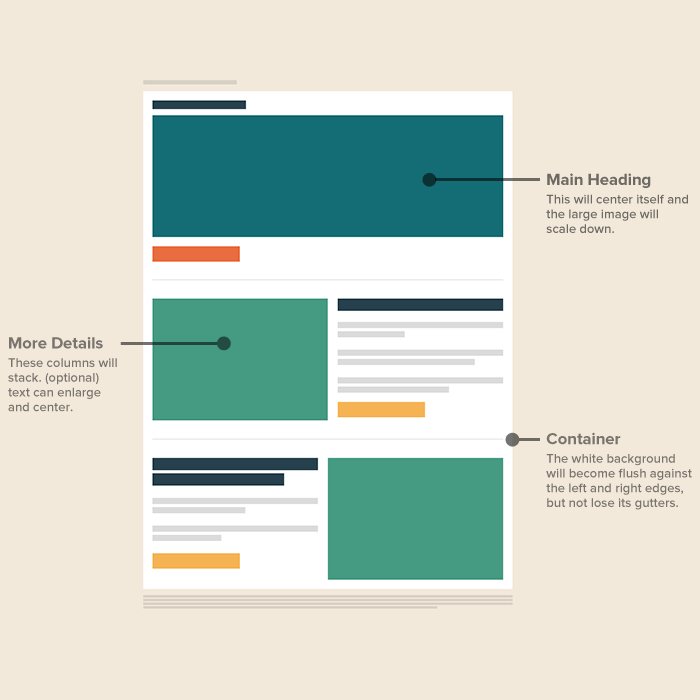
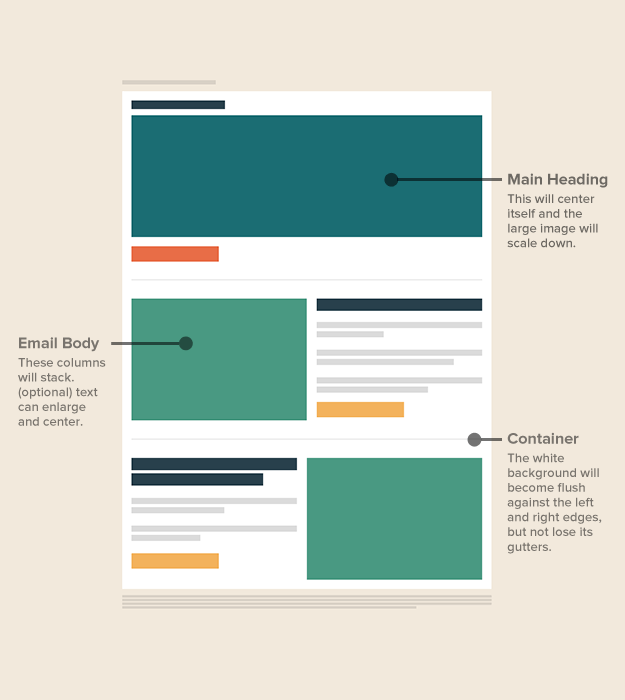
Rewrote Personal Projects
* Rewrote all text content in personal projects
* New images for Responsive Email XX and Support Details
* Added Cerberus section

diff --git a/css/global.css b/css/global.css
@@ -1,1 +1,1 @@
-html,body,div,span,applet,object,iframe,h1,h2,h3,h4,h5,h6,p,blockquote,pre,a,abbr,acronym,address,big,cite,code,del,dfn,em,font,img,ins,kbd,q,s,samp,small,strike,strong,sub,sup,tt,var,dl,dt,dd,ol,ul,li,fieldset,form,label,legend,table,caption,tbody,tfoot,thead,tr,th,td,hr,article,aside,details,figcaption,figure,footer,header,hgroup,menu,nav,section{margin:0;padding:0;border:0;font-weight:normal}article,aside,details,figcaption,figure,footer,header,hgroup,menu,nav,section{display:block}ol,ul,li{list-style-type:none}.cf,.inside{zoom:1}.cf:before,.inside:before,.cf:after,.inside:after{content:" ";display:table}.cf:after,.inside:after{clear:both}@font-face{font-family:'fontello';src:url('font/fontello.eot?32152250');src:url('font/fontello.eot?32152250#iefix') format('embedded-opentype'),url('font/fontello.woff?32152250') format('woff'),url('font/fontello.ttf?32152250') format('truetype'),url('font/fontello.svg?32152250#fontello') format('svg');font-weight:normal;font-style:normal}[class^="icon-"]:before,[class*=" icon-"]:before{font-family:"fontello";font-style:normal;font-weight:normal;speak:none;display:inline-block;text-decoration:inherit;width:1em;margin-right:.2em;text-align:center;font-variant:normal;text-transform:none;line-height:1em;margin-left:.2em}.icon-menu:before{content:'\2630'}.icon-rss:before{content:'\e802'}.icon-left-open-big:before{content:'\e801'}.icon-right-open-big:before{content:'\e800'}.icon-github:before{content:'\f300'}.icon-twitter:before{content:'\f309'}.icon-dribbble-1:before{content:'\f31b'}.icnSocial{display:inline-block;line-height:1.9;border:1px solid;text-align:center;height:28px;width:28px;border-radius:2px;padding:0 0 0 1px;box-shadow:inset 0 1px 0 rgba(255,255,255,0.1)}.icnSocial i{font-size:16px;margin:auto;color:#fff;text-shadow:0 1px 1px rgba(0,0,0,0.25)}.icnSocial.twitter{border-color:#008cc1;background:#00aced;background-image:-webkit-gradient(linear,0% 0,0% 100%,from(#7bc9f3),to(#00aced));background-image:-webkit-linear-gradient(top,#7bc9f3,#00aced);background-image:-moz-linear-gradient(top,#7bc9f3,#00aced);background-image:-ms-linear-gradient(top,#7bc9f3,#00aced)}.icnSocial.dribbble{border-color:#c8004d;background:#ea4c89;background-image:-webkit-gradient(linear,0% 0,0% 100%,from(#ef79a7),to(#ea4c89));background-image:-webkit-linear-gradient(top,#ef79a7,#ea4c89);background-image:-moz-linear-gradient(top,#ef79a7,#ea4c89);background-image:-ms-linear-gradient(top,#ef79a7,#ea4c89)}.icnSocial.github{border-color:#222;background:#444;background-image:-webkit-gradient(linear,0% 0,0% 100%,from(#555),to(#444));background-image:-webkit-linear-gradient(top,#555,#444);background-image:-moz-linear-gradient(top,#555,#444);background-image:-ms-linear-gradient(top,#555,#444)}.icnSocial.rss{border-color:#222;background:#ff9846;background-image:-webkit-gradient(linear,0% 0,0% 100%,from(#ffad6a),to(#ff9846));background-image:-webkit-linear-gradient(top,#ffad6a,#ff9846);background-image:-moz-linear-gradient(top,#ffad6a,#ff9846);background-image:-ms-linear-gradient(top,#ffad6a,#ff9846)}html{font-size:100%;-webkit-text-size-adjust:100%;-ms-text-size-adjust:100%}body{font-family:"freight-sans-pro",arial,sans-serif;color:#666;font-size:20px;line-height:1.33em;letter-spacing:.025em}h1{font-weight:300;font-size:60px;line-height:1;margin:0 0 50px 0}h2{font-weight:700;font-size:30px;line-height:1.231;margin-bottom:25px}h3{font-weight:700;font-size:20px}h4{font-weight:700;font-size:15px;text-transform:uppercase;letter-spacing:.1em}.intro{font-weight:300;font-size:40px;line-height:1.1em;margin-bottom:37.5px}p,article ul,blockquote{margin:0 0 25px 0}blockquote p{font-size:30px;line-height:1.1;font-weight:100;color:#aaa;margin:0}article li{margin:0 0 10px 25px}article ul li{list-style-type:disc}article ol li{list-style-type:decimal}article .icons li{list-style-type:none}ul.icons li:before{display:block;content:"✓";color:#888;float:left;margin:0 0 0 -25px;list-style-type:none}strong,b{font-weight:700}small,figcaption{font-size:15px;line-height:1;opacity:.5}small.summary{display:block;margin:-25px 0 25px}sup{line-height:0;margin:0 2px}a,a:visited{text-decoration:none;color:#26ade4}pre,code{font-family:"American Typewriter",'courier new',serif;font-size:15px;color:#888}abbr[title],dfn[title]{cursor:help}hr{margin:25px 0;display:block;border-top:1px solid #eee;line-height:0;height:0;font-size:0}::-moz-selection{background:#444;color:#fff;text-shadow:none}::selection{background:#444;color:#fff;text-shadow:none}.wf-loading h1,.wf-loading h2,.wf-loading h3,.wf-loading p,.wf-loading li,.wf-loading img{opacity:0;visibility:hidden\9}h1,h2,h3,p,li,img{opacity:1;visibility:visible;transition:opacity .1s ease-in-out}img{width:auto;height:auto}img.fluid{max-width:100%}.icnInline{line-height:1.5}img.skill{width:72px;height:72px}img.x2{height:50%;width:50%}a.btn{padding:8px 15px;margin:auto;color:#fff;font-size:15px;line-height:1;border-radius:20px;-webkit-transition:all .1s ease-in;transition:all .1s ease-in}.btn.dribbble,.btn.github{opacity:.8}.btn.dribbble i,.btn.github i{position:relative;top:1px;font-size:16px}.btn.dribbble:hover,.btn.github:hover,.btn.dribbble:focus,.btn.github:focus,.btn.dribbble:active,.btn.github:active{opacity:1}.btn.dribbble{background:#ea4c89}.btn.github{background:#222}.sitelink .btn{background:rgba(0,0,0,0.2)}.sitelink .btn:hover,.sitelink .btn:focus,.sitelink .btn:active{background:rgba(0,0,0,0.4)}body{background:#fff url(i/bgPage.png) repeat;overflow-x:hidden}.inside{width:1000px;margin:auto;text-align:left}.main{margin-top:75px}.header{background:#111;letter-spacing:.1em;padding:10px 0;position:relative;z-index:1}.header nav{-webkit-transition:all .3s ease-out;transition:all .3s ease-out}.header li{display:inline;font-size:15px;text-transform:uppercase;margin-right:5%}.header li a,.header li:visited{font-weight:500;color:#fff}.header li.nSocial{float:right;margin:0}.header li.nSocial a{display:inline-block;margin-left:4px}.home .header .ted,.work .header li.nWork a,.contact .header li.nContact a,.bio .header li.nBio a,.blog .header li.nBlog a{color:#26ade4}a.menu-link{display:none}.home{background:#000}.home .header{background:rgba(0,0,0,0.5)}.home .main .inside{color:#eee;margin-top:75px}.home p{margin-right:60%;text-shadow:2px 2px 2px rgba(0,0,0,0.75)}.home p.intro{margin-right:52.5%}.home h1{margin-top:5%}.home .main a,.home .main a:visited,.home .main a:hover,.home .main a:focus,.home .main a:active{color:#fff;border-bottom:1px solid #666}.home .footer .inside,.home .footer a{color:#999;text-shadow:0 1px 1px rgba(0,0,0,0.5)}.work .main{margin-top:25px}.projects{border-bottom:1px solid #eee}.project{width:33%;margin:0;padding:0;list-style-type:none;display:block;line-height:1;float:left;text-align:center}.project img{border:2px solid #fff;width:100%}.project a{color:#666;display:block;-webkit-transition:all .15s ease-in-out;transition:all .15s ease-in-out}.project a:hover h4,.project a:focus h4,.project a:active h4{color:#26ade4}.project h4{margin:10px 0 5px}.project small{margin:0;display:block;margin-bottom:25px}.skills{margin-top:25px}.skills img{float:left;margin-top:6px}.skills h2{margin-bottom:50px}.skills p{margin-bottom:50px}.skills h3,.skills h4,.skills p{margin-left:85px}.skills .what{padding-top:50px;float:left;width:47.5%}.exp{float:right;width:45%;padding:50px 0 0 2.5%;border-left:1px solid #eee}.exp p{font-size:15px;line-height:1.33;margin-bottom:50px}.what h3{padding:8px 0 8px 17px;margin:0 0 8px 68px;border-bottom:1px solid;font-weight:400}h3.product{color:#26ade4;border-color:#26ade4}h3.design{color:#e4264e;border-color:#e4264e}h3.code{color:#6bd516;border-color:#6bd516}h3.email{color:#9a26e4;border-color:#9a26e4}h3.speed{color:#26e4bc;border-color:#26e4bc}h3.more{color:#e4bc26;border-color:#e4bc26}.workNav a{position:fixed;z-index:99;top:49%;font-weight:800;font-size:15px;line-height:1;text-transform:uppercase;letter-spacing:.1em;padding:15px 15px 14px;background:rgba(0,0,0,0.4);color:#fff;width:210px;border-radius:3px;transition:all .15s ease-in-out}.workNav a:hover,.workNav a:focus,.workNav a:active{background:rgba(0,0,0,0.6)}.workNav i{text-align:left;font-size:15px}.next{right:-3px;text-align:right;margin-right:-200px}.next:hover{margin:0}.next i{float:left;margin:-1px 0 0 -5px}.prev{left:-3px;text-align:left;margin-left:-200px}.prev:hover{margin:0}.prev i{float:right;margin:-1px -5px 0 0}.work figure{line-height:0}.work .mast .inside{position:relative}.mast .text{width:40%;float:left;margin-top:5%}.mast h1{margin-bottom:25px}.note{font-size:15px;line-height:1.231;margin:0 0 25px 0;display:block;opacity:.5}.mast figure{float:right;width:60%;text-align:center}.mast .idid small{display:block;margin-bottom:5px;letter-spacing:.1em;text-transform:uppercase;opacity:.5}.idid li{position:relative;display:inline-block;margin:0 1.5% 1.5% 0;line-height:1;border-radius:2px;color:#fff;padding:6px 8px 4px;font-weight:500;font-size:15px;letter-spacing:.15em;text-transform:uppercase;opacity:.8;transition:all .2s ease-in-out;box-shadow:inset 0 1px 0 rgba(255,255,255,0.1),0 1px 0 rgba(0,0,0,0.25);text-shadow:0 1px 1px rgba(0,0,0,0.33)}.idid .design{background:#b72645}.idid .product{background:#268db7}.idid .code{background:#8eb727}.idid .email{background:#7f27b7}.idid .speed{background:#26b799}div.sitelink{margin:0 0 25px 0}.work section{padding:75px 0;border-bottom:1px solid #eee}.work section.nobottom{padding-bottom:0}.work .imgr .text{float:left;width:35%}.work .imgr figure{float:right;width:65%}.work .imgl .text{float:right;width:35%}.work .imgl figure{float:left;width:65%}.work .imgr img{float:right}.work .text img{float:none}.work .halves p{width:47.5%;float:left}.work .halves p:last-child{float:right}.contact .l{float:left;width:45%}.contact .r{float:right;width:50%;text-align:center}.contact .r img{margin:25px auto 10px}.contact .r small{display:block}img.email{width:80%}.map{margin-top:25px;padding-top:25px;border-top:1px solid #eee;text-align:center;overflow:hidden}.bio .timeline{background:#f8f1e1;background:rgba(181,134,26,0.05)}.bio .mast{background:#0f0f0f url(i/bio.jpg) top center repeat-x;border-bottom:12px solid #000;height:400px}.bio .mast .inside{text-align:center}.bio .mast p{display:inline-block;margin:300px auto 0;font-size:40px;line-height:1.1;color:#fff;padding:1.5% 2%;background:rgba(0,0,0,0.5);font-weight:300}.timeline{position:relative}.timeline .inside{border-left:4px solid #e5e0d3;padding:100px 0 150px 0}.timeline li{position:relative;z-index:2;width:45%;border:1px solid #f2f2f2;background:#fff;margin:0 0 -75px 5%;border-radius:5px;-webkit-box-shadow:0 1px 2px rgba(0,0,0,0.05);box-shadow:0 1px 2px rgba(0,0,0,0.05)}.timeline li:nth-child(even){margin-left:55%}.timeline li:before{display:block;content:"";position:absolute;z-index:-1;top:50%;height:4px;margin-top:-2px;background:#e5e0d3;left:-12%;width:15%}.timeline li:nth-child(even):before{left:-123%;width:125%}.timeline li:after{position:absolute;z-index:-1;left:-10px;top:50%;margin-top:-11px;content:" ";display:block;height:14px;width:14px;border:4px solid #e5e0d3;border-radius:20px;background:#f7f3e8}.timeline span{position:absolute;z-index:3;top:-25px;left:50%;margin-left:-25px;height:51px;width:53px;text-align:center;line-height:300%;letter-spacing:.1em;font-size:15px;font-weight:700;color:#495262}.timeline span img{position:absolute;top:0;left:0;z-index:-1}.timeline li div{line-height:0}.timeline p{color:#888;font-size:20px;line-height:1.231;border-top:2px solid;padding:5%;margin:0}.red p{border-color:#e4264e}.yellow p{border-color:#e4bc26}.green p{border-color:#6bd516}.blue p{border-color:#26ade4}.purple p{border-color:#9a26e4}.blog .main{margin-top:0}.blog .mast{background:#06111a url(i/mastBlog.jpg) top center no-repeat;height:250px;border-bottom:3px solid #6bd516}.blog .mastBottom{box-shadow:inset 0 2px 0 rgba(0,0,0,0.25)}.blog .summary{text-align:center;position:relative}.blog .summary ul{position:relative;width:100%}.blog .summary li{height:2px;width:20%;display:block;float:left}.blog .summary .r{background:#e4264e}.blog .summary .y{background:#e4bc26}.blog .summary .g{background:#6bd516}.blog .summary .b{background:#26ade4}.blog .summary .p{background:#9a26e4}.blog .summary div{margin:60px auto;color:#fff;display:inline-block;background:rgba(0,0,0,0.7)}.blog .summary div p{padding:5% 5%;white-space:nowrap;margin:0}.blog .summary a,.blog .summary a:visited{font-size:15px;color:#888;border-bottom:1px solid #444}.blog .summary a:hover,.blog .summary a:focus,.blog .summary a:active{color:#fff;border-color:#fff}.blog .summary a.icnSocial,.blog .summary a.icnSocial:hover,.blog .summary a.icnSocial:focus,.blog .summary a.icnSocial:active{margin:8px auto;border-color:#ffad6a}.blog .article,.blog .archive{width:60%;margin:0 auto 75px}.blog footer{text-align:center}.caption,small.meta,figcaption{text-align:center;display:block;margin-top:10px}.blog h1{text-align:center;margin:25px auto 0}.blog article header{margin-bottom:50px}.blog .pic{position:relative;margin:50px 0 0;text-align:center;font-size:15px;color:#888;line-height:0}.blog article h3{margin-bottom:.5em}.blog article blockquote{padding:2.5% 5% 2.5%;border-left:5px solid #26ade4}div.twitter-tweet-rendered{margin:0 auto 1.5em}.blog figure{line-height:1}.blog figure.left.pull{float:left;margin:0 5% 2.5% -15%;max-width:75%}a.medium{display:block;padding:8px 12px;background:#333;color:#fff;border-left:4px solid #57ad68}a.medium:hover,a.medium:focus,a.medium:active{background:#222}.blog .archive{margin-top:25px}.archive li{text-align:center;font-size:30px;line-height:1;font-weight:300;margin:0 0 3.5% 0;padding:0 0 3.5% 0;list-style-type:none;border-bottom:1px solid #eee}.footer .inside{font-size:15px;padding:1.5% 0;color:#ccc;text-align:center}.footer li{margin:0 auto;line-height:1.5}.footer span{line-height:0;font-size:30px;position:relative;top:4px;padding:0 1%}@media screen and (max-width:1050px){.inside{width:auto;margin:0 10px}.project{opacity:1}.project small{height:30px}.work .imgr figure,.work .imgl figure{width:60%}.work .mast .text,.work .imgr .text,.work .imgl .text{width:35%}figure img{max-width:100%}.olay .mast figure,.seatgeek .mast figure,.cloudee .mast figure,.tru .mast figure{position:absolute;bottom:0;right:0}.footer span{font-size:150%}.blog .canvas{padding:0 17.5%}}@media screen and (max-width:639px){.header{background:0;padding:0;border:0}.header .inside{text-align:center}a.menu-link{text-align:center;display:block;padding:.5em 0;margin:0 -10px;text-transform:uppercase;color:#fff;font-size:15px;letter-spacing:.1em;border:1px solid #222;box-shadow:inset 0 1px 0 rgba(255,255,255,0.1);background:#333;background:-moz-linear-gradient(top,#333 0,#222 100%);background:-webkit-gradient(linear,left top,left bottom,color-stop(0%,#333),color-stop(100%,#222));background:-webkit-linear-gradient(top,#333 0,#222 100%);background:-o-linear-gradient(top,#333 0,#222 100%);background:-ms-linear-gradient(top,#333 0,#222 100%);background:linear-gradient(to bottom,#333 0,#222 100%);filter:progid:DXImageTransform.Microsoft.gradient(startColorstr='#333333',endColorstr='#222222',GradientType=0)}a.menu-link i{position:relative;top:2px;font-size:19px}nav{margin:0 -10px;max-height:0;overflow:hidden;transition:all 1s ease-in-out}nav.active{max-height:22em}.header li{display:block;width:100%;text-align:center;background:#222;border-top:1px solid #000;box-shadow:inset 0 1px 0 rgba(255,255,255,0.075)}.header li.nSocial{display:none}.header li a{display:block;padding:.75em 0}.header li.nSocial a{display:inline-block;padding:0}#backstretch{opacity:.5}.home .main .inside{margin-top:0}.home .main .inside p,.home .main .inside p.intro{margin-right:0}.home .main .inside p.intro{font-size:30px}.project{width:50%;display:block;float:left;margin:0;min-height:275px}.skills{border:0;margin:0}.skills .what,.skills .exp{width:100%;float:none;border:0;padding:0}.skills h2{margin:50px 0 25px}.work .mast .text,.work .mast figure,.work .imgr .text,.work .imgr figure,.work .imgl .text,.work .imgl figure,.work .full .text,.work .full figure{float:none;width:100%!important}.work .mast{background-image:none}.mast h1{text-align:center}.olay .mast h1 img{width:75%}.sitelink{text-align:center}.idid{display:block;text-align:center}.idid img{margin:0 .1%}.work .text,.work section.nobottom{padding-bottom:25px}.work .mast figure{position:static}.contact .l,.contact .r{float:none;width:100%;margin:0}.contact .r{margin:50px 0;padding:50px 0;border-top:1px solid #eee;border-bottom:1px solid #eee}img.email{width:100%;margin-bottom:50px}.bio .mast p{margin-top:150px}.timeline .inside{padding:0}.timeline li,.timeline li:nth-child(even){margin:50px 10px;width:auto}.timeline li:before,.timeline li:nth-child(even):before{left:-11px;width:11px}.timeline li img.fluid{width:100%}.timeline li:after{display:none}.blog .article,.blog .archive{width:90%}.blog figure.left.pull{margin-left:-9%;max-width:60%}.blog .summary div p{white-space:normal}.footer .inside{text-align:center}.footer em{display:block;float:none}}@media print{*{background:transparent!important;color:black!important;text-shadow:none!important;filter:none!important;-ms-filter:none!important}a,a:visited{color:#444!important;text-decoration:underline}a[href]:after{content:"(" attr(href) ")"}pre,blockquote{border:1px solid #999;page-break-inside:avoid}thead{display:table-header-group}tr,img{page-break-inside:avoid}@page{margin:.5cm}p,h2,h3{orphans:3;widows:3}h2,h3{page-break-after:avoid}}
+html,body,div,span,applet,object,iframe,h1,h2,h3,h4,h5,h6,p,blockquote,pre,a,abbr,acronym,address,big,cite,code,del,dfn,em,font,img,ins,kbd,q,s,samp,small,strike,strong,sub,sup,tt,var,dl,dt,dd,ol,ul,li,fieldset,form,label,legend,table,caption,tbody,tfoot,thead,tr,th,td,hr,article,aside,details,figcaption,figure,footer,header,hgroup,menu,nav,section{margin:0;padding:0;border:0;font-weight:normal}article,aside,details,figcaption,figure,footer,header,hgroup,menu,nav,section{display:block}ol,ul,li{list-style-type:none}.cf,.inside{zoom:1}.cf:before,.inside:before,.cf:after,.inside:after{content:" ";display:table}.cf:after,.inside:after{clear:both}@font-face{font-family:'fontello';src:url('font/fontello.eot?32152250');src:url('font/fontello.eot?32152250#iefix') format('embedded-opentype'),url('font/fontello.woff?32152250') format('woff'),url('font/fontello.ttf?32152250') format('truetype'),url('font/fontello.svg?32152250#fontello') format('svg');font-weight:normal;font-style:normal}[class^="icon-"]:before,[class*=" icon-"]:before{font-family:"fontello";font-style:normal;font-weight:normal;speak:none;display:inline-block;text-decoration:inherit;width:1em;margin-right:.2em;text-align:center;font-variant:normal;text-transform:none;line-height:1em;margin-left:.2em}.icon-menu:before{content:'\2630'}.icon-rss:before{content:'\e802'}.icon-left-open-big:before{content:'\e801'}.icon-right-open-big:before{content:'\e800'}.icon-github:before{content:'\f300'}.icon-twitter:before{content:'\f309'}.icon-dribbble-1:before{content:'\f31b'}.icnSocial{display:inline-block;line-height:1.9;border:1px solid;text-align:center;height:28px;width:28px;border-radius:2px;padding:0 0 0 1px;box-shadow:inset 0 1px 0 rgba(255,255,255,0.1)}.icnSocial i{font-size:16px;margin:auto;color:#fff;text-shadow:0 1px 1px rgba(0,0,0,0.25)}.icnSocial.twitter{border-color:#008cc1;background:#00aced;background-image:-webkit-gradient(linear,0% 0,0% 100%,from(#7bc9f3),to(#00aced));background-image:-webkit-linear-gradient(top,#7bc9f3,#00aced);background-image:-moz-linear-gradient(top,#7bc9f3,#00aced);background-image:-ms-linear-gradient(top,#7bc9f3,#00aced)}.icnSocial.dribbble{border-color:#c8004d;background:#ea4c89;background-image:-webkit-gradient(linear,0% 0,0% 100%,from(#ef79a7),to(#ea4c89));background-image:-webkit-linear-gradient(top,#ef79a7,#ea4c89);background-image:-moz-linear-gradient(top,#ef79a7,#ea4c89);background-image:-ms-linear-gradient(top,#ef79a7,#ea4c89)}.icnSocial.github{border-color:#222;background:#444;background-image:-webkit-gradient(linear,0% 0,0% 100%,from(#555),to(#444));background-image:-webkit-linear-gradient(top,#555,#444);background-image:-moz-linear-gradient(top,#555,#444);background-image:-ms-linear-gradient(top,#555,#444)}.icnSocial.rss{border-color:#222;background:#ff9846;background-image:-webkit-gradient(linear,0% 0,0% 100%,from(#ffad6a),to(#ff9846));background-image:-webkit-linear-gradient(top,#ffad6a,#ff9846);background-image:-moz-linear-gradient(top,#ffad6a,#ff9846);background-image:-ms-linear-gradient(top,#ffad6a,#ff9846)}html{font-size:100%;-webkit-text-size-adjust:100%;-ms-text-size-adjust:100%}body{font-family:"freight-sans-pro",arial,sans-serif;color:#666;font-size:20px;line-height:1.33em;letter-spacing:.025em}h1{font-weight:300;font-size:60px;line-height:1;margin:0 0 50px 0}h2{font-weight:700;font-size:30px;line-height:1.231;margin-bottom:25px}h3{font-weight:700;font-size:20px}h4{font-weight:700;font-size:15px;text-transform:uppercase;letter-spacing:.1em}.intro{font-weight:300;font-size:40px;line-height:1.1em;margin-bottom:37.5px}p,article ul,blockquote{margin:0 0 25px 0}.center{text-align:center}blockquote p{font-size:30px;line-height:1.1;font-weight:100;color:#aaa;margin:0}article li{margin:0 0 10px 25px}article ul li{list-style-type:disc}article ol li{list-style-type:decimal}article .icons li{list-style-type:none}ul.icons li:before{display:block;content:"✓";color:#888;float:left;margin:0 0 0 -25px;list-style-type:none}strong,b{font-weight:700}small,figcaption{font-size:15px;line-height:1;opacity:.5}small.summary{display:block;margin:-25px 0 25px}sup{line-height:0;margin:0 2px}a,a:visited{text-decoration:none;color:#26ade4}pre,code{font-family:"American Typewriter",'courier new',serif;font-size:15px;color:#888}abbr[title],dfn[title]{cursor:help}hr{margin:25px 0;display:block;border-top:1px solid #eee;line-height:0;height:0;font-size:0}::-moz-selection{background:#444;color:#fff;text-shadow:none}::selection{background:#444;color:#fff;text-shadow:none}.wf-loading h1,.wf-loading h2,.wf-loading h3,.wf-loading p,.wf-loading li,.wf-loading img{opacity:0;visibility:hidden\9}h1,h2,h3,p,li,img{opacity:1;visibility:visible;transition:opacity .1s ease-in-out}img{width:auto;height:auto}img.fluid{max-width:100%}.icnInline{line-height:1.5}img.skill{width:72px;height:72px}img.x2{height:50%;width:50%}a.btn{padding:8px 15px;margin:auto;color:#fff;font-size:15px;line-height:1;border-radius:20px;-webkit-transition:all .1s ease-in;transition:all .1s ease-in;white-space:nowrap;display:inline-block;margin:3px auto}.btn.dribbble,.btn.github{opacity:.8}.btn.dribbble i,.btn.github i{position:relative;top:1px;font-size:16px}.btn.dribbble:hover,.btn.github:hover,.btn.dribbble:focus,.btn.github:focus,.btn.dribbble:active,.btn.github:active{opacity:1}.btn.dribbble{background:#ea4c89}.btn.github{background:#222}.sitelink .btn{background:rgba(0,0,0,0.2)}.sitelink .btn:hover,.sitelink .btn:focus,.sitelink .btn:active{background:rgba(0,0,0,0.4)}body{background:#fff url(i/bgPage.png) repeat;overflow-x:hidden}.inside{width:1000px;margin:auto;text-align:left}.main{margin-top:75px}.header{background:#111;letter-spacing:.1em;padding:10px 0;position:relative;z-index:1}.header nav{-webkit-transition:all .3s ease-out;transition:all .3s ease-out}.header li{display:inline;font-size:15px;text-transform:uppercase;margin-right:5%}.header li a,.header li:visited{font-weight:500;color:#fff}.header li.nSocial{float:right;margin:0}.header li.nSocial a{display:inline-block;margin-left:4px}.home .header .ted,.work .header li.nWork a,.contact .header li.nContact a,.bio .header li.nBio a,.blog .header li.nBlog a{color:#26ade4}a.menu-link{display:none}.home{background:#000}.home .header{background:rgba(0,0,0,0.5)}.home .main .inside{color:#eee;margin-top:75px}.home p{margin-right:60%;text-shadow:2px 2px 2px rgba(0,0,0,0.75)}.home p.intro{margin-right:52.5%}.home h1{margin-top:5%}.home .main a,.home .main a:visited,.home .main a:hover,.home .main a:focus,.home .main a:active{color:#fff;border-bottom:1px solid #666}.home .footer .inside,.home .footer a{color:#999;text-shadow:0 1px 1px rgba(0,0,0,0.5)}.work .main{margin-top:25px}.projects{border-bottom:1px solid #eee}.project{width:33%;margin:0;padding:0;list-style-type:none;display:block;line-height:1;float:left;text-align:center}.project img{border:2px solid #fff;width:100%}.project a{color:#666;display:block;-webkit-transition:all .15s ease-in-out;transition:all .15s ease-in-out}.project a:hover h4,.project a:focus h4,.project a:active h4{color:#26ade4}.project h4{margin:10px 0 5px}.project small{margin:0;display:block;margin-bottom:25px}.skills{margin-top:25px}.skills img{float:left;margin-top:6px}.skills h2{margin-bottom:50px}.skills p{margin-bottom:50px}.skills h3,.skills h4,.skills p{margin-left:85px}.skills .what{padding-top:50px;float:left;width:47.5%}.exp{float:right;width:45%;padding:50px 0 0 2.5%;border-left:1px solid #eee}.exp p{font-size:15px;line-height:1.33;margin-bottom:50px}.what h3{padding:8px 0 8px 17px;margin:0 0 8px 68px;border-bottom:1px solid;font-weight:400}h3.product{color:#26ade4;border-color:#26ade4}h3.design{color:#e4264e;border-color:#e4264e}h3.code{color:#6bd516;border-color:#6bd516}h3.email{color:#9a26e4;border-color:#9a26e4}h3.speed{color:#26e4bc;border-color:#26e4bc}h3.more{color:#e4bc26;border-color:#e4bc26}.workNav a{position:fixed;z-index:99;top:49%;font-weight:800;font-size:15px;line-height:1;text-transform:uppercase;letter-spacing:.1em;padding:15px 15px 14px;background:rgba(0,0,0,0.4);color:#fff;width:210px;border-radius:3px;transition:all .15s ease-in-out}.workNav a:hover,.workNav a:focus,.workNav a:active{background:rgba(0,0,0,0.6)}.workNav i{text-align:left;font-size:15px}.next{right:-3px;text-align:right;margin-right:-200px}.next:hover{margin:0}.next i{float:left;margin:-1px 0 0 -5px}.prev{left:-3px;text-align:left;margin-left:-200px}.prev:hover{margin:0}.prev i{float:right;margin:-1px -5px 0 0}.work figure{line-height:0}.work .mast .inside{position:relative}.mast .text{width:40%;float:left;margin-top:5%}.mast h1{margin-bottom:25px}.note{font-size:15px;line-height:1.231;margin:0 0 25px 0;display:block;opacity:.5}.mast figure{float:right;width:60%;text-align:center}.mast .idid small{display:block;margin-bottom:5px;letter-spacing:.1em;text-transform:uppercase;opacity:.5}.idid li{position:relative;display:inline-block;margin:0 1.5% 1.5% 0;line-height:1;border-radius:2px;color:#fff;padding:6px 8px 4px;font-weight:500;font-size:15px;letter-spacing:.15em;text-transform:uppercase;opacity:.8;transition:all .2s ease-in-out;box-shadow:inset 0 1px 0 rgba(255,255,255,0.1),0 1px 0 rgba(0,0,0,0.25);text-shadow:0 1px 1px rgba(0,0,0,0.33)}.idid .design{background:#b72645}.idid .product{background:#268db7}.idid .code{background:#8eb727}.idid .email{background:#7f27b7}.idid .speed{background:#26b799}div.sitelink{margin:0 0 25px 0}.work section{padding:75px 0;border-bottom:1px solid #eee}.work section.nobottom{padding-bottom:0}.work .imgr .text{float:left;width:35%}.work .imgr figure{float:right;width:65%}.work .imgl .text{float:right;width:35%}.work .imgl figure{float:left;width:65%}.work .imgr img{float:right}.work .text img{float:none}.work .halves p{width:47.5%;float:left}.work .halves p:last-child{float:right}.contact .l{float:left;width:45%}.contact .r{float:right;width:50%;text-align:center}.contact .r img{margin:25px auto 10px}.contact .r small{display:block}img.email{width:80%}.map{margin-top:25px;padding-top:25px;border-top:1px solid #eee;text-align:center;overflow:hidden}.bio .timeline{background:#f8f1e1;background:rgba(181,134,26,0.05)}.bio .mast{background:#0f0f0f url(i/bio.jpg) top center repeat-x;border-bottom:12px solid #000;height:400px}.bio .mast .inside{text-align:center}.bio .mast p{display:inline-block;margin:300px auto 0;font-size:40px;line-height:1.1;color:#fff;padding:1.5% 2%;background:rgba(0,0,0,0.5);font-weight:300}.timeline{position:relative}.timeline .inside{border-left:4px solid #e5e0d3;padding:100px 0 150px 0}.timeline li{position:relative;z-index:2;width:45%;border:1px solid #f2f2f2;background:#fff;margin:0 0 -75px 5%;border-radius:5px;-webkit-box-shadow:0 1px 2px rgba(0,0,0,0.05);box-shadow:0 1px 2px rgba(0,0,0,0.05)}.timeline li:nth-child(even){margin-left:55%}.timeline li:before{display:block;content:"";position:absolute;z-index:-1;top:50%;height:4px;margin-top:-2px;background:#e5e0d3;left:-12%;width:15%}.timeline li:nth-child(even):before{left:-123%;width:125%}.timeline li:after{position:absolute;z-index:-1;left:-10px;top:50%;margin-top:-11px;content:" ";display:block;height:14px;width:14px;border:4px solid #e5e0d3;border-radius:20px;background:#f7f3e8}.timeline span{position:absolute;z-index:3;top:-25px;left:50%;margin-left:-25px;height:51px;width:53px;text-align:center;line-height:300%;letter-spacing:.1em;font-size:15px;font-weight:700;color:#495262}.timeline span img{position:absolute;top:0;left:0;z-index:-1}.timeline li div{line-height:0}.timeline p{color:#888;font-size:20px;line-height:1.231;border-top:2px solid;padding:5%;margin:0}.red p{border-color:#e4264e}.yellow p{border-color:#e4bc26}.green p{border-color:#6bd516}.blue p{border-color:#26ade4}.purple p{border-color:#9a26e4}.blog .main{margin-top:0}.blog .mast{background:#06111a url(i/mastBlog.jpg) top center no-repeat;height:250px;border-bottom:3px solid #6bd516}.blog .mastBottom{box-shadow:inset 0 2px 0 rgba(0,0,0,0.25)}.blog .summary{text-align:center;position:relative}.blog .summary ul{position:relative;width:100%}.blog .summary li{height:2px;width:20%;display:block;float:left}.blog .summary .r{background:#e4264e}.blog .summary .y{background:#e4bc26}.blog .summary .g{background:#6bd516}.blog .summary .b{background:#26ade4}.blog .summary .p{background:#9a26e4}.blog .summary div{margin:60px auto;color:#fff;display:inline-block;background:rgba(0,0,0,0.7)}.blog .summary div p{padding:5% 5%;white-space:nowrap;margin:0}.blog .summary a,.blog .summary a:visited{font-size:15px;color:#888;border-bottom:1px solid #444}.blog .summary a:hover,.blog .summary a:focus,.blog .summary a:active{color:#fff;border-color:#fff}.blog .summary a.icnSocial,.blog .summary a.icnSocial:hover,.blog .summary a.icnSocial:focus,.blog .summary a.icnSocial:active{margin:8px auto;border-color:#ffad6a}.blog .article,.blog .archive{width:60%;margin:0 auto 75px}.blog footer{text-align:center}.caption,small.meta,figcaption{text-align:center;display:block;margin-top:10px}.blog h1{text-align:center;margin:25px auto 0}.blog article header{margin-bottom:50px}.blog .pic{position:relative;margin:50px 0 0;text-align:center;font-size:15px;color:#888;line-height:0}.blog article h3{margin-bottom:.5em}.blog article blockquote{padding:2.5% 5% 2.5%;border-left:5px solid #26ade4}div.twitter-tweet-rendered{margin:0 auto 1.5em}.blog figure{line-height:1}.blog figure.left.pull{float:left;margin:0 5% 2.5% -15%;max-width:75%}a.medium{display:block;padding:8px 12px;background:#333;color:#fff;border-left:4px solid #57ad68}a.medium:hover,a.medium:focus,a.medium:active{background:#222}.blog .archive{margin-top:25px}.archive li{text-align:center;font-size:30px;line-height:1;font-weight:300;margin:0 0 3.5% 0;padding:0 0 3.5% 0;list-style-type:none;border-bottom:1px solid #eee}.footer .inside{font-size:15px;padding:1.5% 0;color:#ccc;text-align:center}.footer li{margin:0 auto;line-height:1.5}.footer span{line-height:0;font-size:30px;position:relative;top:4px;padding:0 1%}@media screen and (max-width:1050px){.inside{width:auto;margin:0 10px}.project{opacity:1}.project small{height:30px}.work .imgr figure,.work .imgl figure{width:60%}.work .mast .text,.work .imgr .text,.work .imgl .text{width:35%}figure img{max-width:100%}.olay .mast figure,.seatgeek .mast figure,.cloudee .mast figure,.tru .mast figure{position:absolute;bottom:0;right:0}.footer span{font-size:150%}.blog .canvas{padding:0 17.5%}}@media screen and (max-width:639px){.header{background:0;padding:0;border:0}.header .inside{text-align:center}a.menu-link{text-align:center;display:block;padding:.5em 0;margin:0 -10px;text-transform:uppercase;color:#fff;font-size:15px;letter-spacing:.1em;border:1px solid #222;box-shadow:inset 0 1px 0 rgba(255,255,255,0.1);background:#333;background:-moz-linear-gradient(top,#333 0,#222 100%);background:-webkit-gradient(linear,left top,left bottom,color-stop(0%,#333),color-stop(100%,#222));background:-webkit-linear-gradient(top,#333 0,#222 100%);background:-o-linear-gradient(top,#333 0,#222 100%);background:-ms-linear-gradient(top,#333 0,#222 100%);background:linear-gradient(to bottom,#333 0,#222 100%);filter:progid:DXImageTransform.Microsoft.gradient(startColorstr='#333333',endColorstr='#222222',GradientType=0)}a.menu-link i{position:relative;top:2px;font-size:19px}nav{margin:0 -10px;max-height:0;overflow:hidden;transition:all 1s ease-in-out}nav.active{max-height:22em}.header li{display:block;width:100%;text-align:center;background:#222;border-top:1px solid #000;box-shadow:inset 0 1px 0 rgba(255,255,255,0.075)}.header li.nSocial{display:none}.header li a{display:block;padding:.75em 0}.header li.nSocial a{display:inline-block;padding:0}#backstretch{opacity:.5}.home .main .inside{margin-top:0}.home .main .inside p,.home .main .inside p.intro{margin-right:0}.home .main .inside p.intro{font-size:30px}.project{width:50%;display:block;float:left;margin:0;min-height:275px}.skills{border:0;margin:0}.skills .what,.skills .exp{width:100%;float:none;border:0;padding:0}.skills h2{margin:50px 0 25px}.work .mast .text,.work .mast figure,.work .imgr .text,.work .imgr figure,.work .imgl .text,.work .imgl figure,.work .full .text,.work .full figure{float:none;width:100%!important}.work .mast{background-image:none}.mast h1{text-align:center}.olay .mast h1 img{width:75%}.sitelink{text-align:center}.idid{display:block;text-align:center}.idid img{margin:0 .1%}.work .text,.work section.nobottom{padding-bottom:25px}.work .mast figure{position:static}.contact .l,.contact .r{float:none;width:100%;margin:0}.contact .r{margin:50px 0;padding:50px 0;border-top:1px solid #eee;border-bottom:1px solid #eee}img.email{width:100%;margin-bottom:50px}.bio .mast p{margin-top:150px}.timeline .inside{padding:0}.timeline li,.timeline li:nth-child(even){margin:50px 10px;width:auto}.timeline li:before,.timeline li:nth-child(even):before{left:-11px;width:11px}.timeline li img.fluid{width:100%}.timeline li:after{display:none}.blog .article,.blog .archive{width:90%}.blog figure.left.pull{margin-left:-9%;max-width:60%}.blog .summary div p{white-space:normal}.footer .inside{text-align:center}.footer em{display:block;float:none}}@media print{*{background:transparent!important;color:black!important;text-shadow:none!important;filter:none!important;-ms-filter:none!important}a,a:visited{color:#444!important;text-decoration:underline}a[href]:after{content:"(" attr(href) ")"}pre,blockquote{border:1px solid #999;page-break-inside:avoid}thead{display:table-header-group}tr,img{page-break-inside:avoid}@page{margin:.5cm}p,h2,h3{orphans:3;widows:3}h2,h3{page-break-after:avoid}}

diff --git a/templates/workPersonal.html b/templates/workPersonal.html
@@ -26,32 +26,44 @@ endif
 </div>
 <div class="outside">
 	<article class="inside">
-		<section class="cf imgr nobottom email">
+		<section class="cf imgr email">
 			<div class="text">
-				<h2>Responsive Emails</h2>
-				<p> I started coding responsive emails in early 2013, but after creating a few templates I noticed that I'd reinvented the wheel with each one. So I created a master template that contains a few layout ideas for HTML emails that adapt to small screens and respond to breakpoints.</p>
-				<p>It also includes workarounds for a few HTML email gotchas in such as dodgy box model support in Hotmail, auto-detected links in Yahoo!, and background images in Outlook. With most of my best-practices in this one template, I started most of my emails using the template, ripping out what I didn't need and customizing the rest.</p>
-				<p>This was too awesome to keep to myself.</p>
-				<p><a href="https://github.com/TedGoas/Responsive-Email-XX" class="btn github"><i class="icon-github"></i> View on GitHub</a></p>
+				<h2>Responsive Email XX</h2>
+				<p>I started coding responsive emails in early 2013, but after creating a few templates I noticed that I'd reinvented the wheel each time. So I created a master template with a few layout ideas that adapt to small screens using media queries. I also included workarounds for common HTML email gotchas such as dodgy box model support in Outlook, auto-detected links in Yahoo!, and background images in Gmail.</p>
+				<p>With most of my best-practices in one template, I creating a solid starting point for new emails. I simply ripped out what I didn't need and customized the rest.</p>
+				<p>This was too awesome to keep to myself, so I named it <strong>Responsive Email XX</strong> (mostly because I was drinking Dos Equis while writing it), and put it up on GitHub.</p>
+				<p><a href="https://github.com/TedGoas/Responsive-Email-XX" class="btn github"><i class="icon-github"></i> View on GitHub</a> <a href="http://dribbble.com/shots/1188413-Responsive-Email" class="btn dribbble"><i class="icon-dribbble-1"></i> View on dribbble</a></p>
 			</div>
-			<figure :scrollreveal-fromright ><a href="http://dribbble.com/shots/1024711-Responsive-Email-Wireframe"><img src="/content/work/5.personal/i/personalEmail.png" alt="Responsive Email diagram" width="700" height="700"></a></figure>
+			<figure :scrollreveal-fromright ><a href="http://dribbble.com/shots/1024711-Responsive-Email-Wireframe"><img src="/content/work/5.personal/i/personalEmail.png" alt="Responsive Email diagram" width="625" height="700"></a></figure>
+		</section>
+		<section class="cf imgl">
+			<div class="text">
+				<h2>Cerberus, Another Responsive Email</h2>
+				<p>Responsive Email XX (above) was my first deep dive with responsive email. I used it for a while and it had some success on GitHub, but after a while its flaws began to surface.</p>
+				<p>So I built another one that combines the best of what's in Responsive Email XX with what I've learned since. I wrote <a href="/blog/cerberus-responsive-email-templates/">a blog post</a> explaining why I made this template, how it works, and what I learned from my second deep dive with responsive emails.</p>
+				<p>This template, called <strong>Cerberus</strong>, focuses on a small number of responsive email patterns that, when combined, go a long way. A mantra of email design is to keep things simple. Where my first attempt failed, I hope this one succeeds.</p>
+				<p><a href="http://tedgoas.github.io/Cerberus/" class="btn github"><i class="icon-github"></i> View on GitHub</a> <a href="http://dribbble.com/shots/1335775-Another-Responsive-Email-Template" class="btn dribbble"><i class="icon-dribbble-1"></i> View on dribbble</a></p>
+			</div>
+			<figure :scrollreveal-fromleft ><a href="http://dribbble.com/shots/1024711-Responsive-Email-Wireframe"><img src="/content/work/5.personal/i/personalCerberus.jpg" alt="Cerberus Email design and code" width="600" height="700"></a></figure>
 		</section>
 		<section class="cf full support">
 			<div class="text">
 				<h2>Support Details</h2>
-				<p>When Canfield's tech support team starts helping a client, the conversation usually starts with <em>“What is your OS / browser / network settings / etc.”?</em> Seeing an opportunity to work on something fun and off-the-books, I designed a concept for an app that grabs the technical details of a computer environment. From this, a co-worker and I built a working prototype <strong>on our spare time</strong>.</p>
-				<p>Written in JavaScript, the app is quite small and portable. It's already been forked into two other projects, proving to be quite useful to our support team.</p>
-				<p><a href="http://dribbble.com/shots/642658-Support-App-Rebound" class="btn dribbble"><i class="icon-dribbble-1"></i> View on dribbble</a></p>
+				<div class="halves cf">
+					<p>When Canfield's tech support team starts helping a client, conversations usually start with <em>“What is your O.S. / browser / network settings”?</em> Seeing an opportunity to work on something fun, I designed an app that automatically grabs the technical details of a computer environment and routes them via email.</p>
+					<p>Using this design, a co-worker and I built a working prototype in JavaScript <strong>on our spare time</strong>. The resulting app is quite portable and has already been forked into Canfield projects. Not a bad way to spend our free time, eh?</p>
+				</div>
+				<p class="center"><a href="http://dribbble.com/shots/642658-Support-App-Rebound" class="btn dribbble"><i class="icon-dribbble-1"></i> View on dribbble</a></p>
 			</div>
 			<figure :scrollreveal-fromtop ><a href="http://dribbble.com/shots/642658-Support-App-Rebound"><img src="/content/work/5.personal/i/oddsSupport.jpg" alt="Support App" width="1000" height="500"></a></figure>
 		</section>
 		<section class="cf full">
 			<div class="text">
 				<h2>Activity Dashboard</h2>
-				<p>I designed this to explore Microsoft's Metro design language. The concept below shows how busy each website is so someone can decide to either jump in or pass. It's not as much of an RSS syndicator as it is a customized dashboard. I never built of working version of this, but it was fun to experiment with this design style.</p>
-				<p><a href="http://dribbble.com/shots/714820-Metro-Dashboard/attachments/66934" title="view final on dribbble" class="btn dribbble"><i class="icon-dribbble-1"></i> View on dribbble</a></p>
+				<p>I designed this to learn and explore Microsoft's Metro design language. This concept was designed purely for fun; I never built of working version of it.</p>
+				<p><a href="http://dribbble.com/shots/714820-Metro-Dashboard" title="view final on dribbble" class="btn dribbble"><i class="icon-dribbble-1"></i> View on dribbble</a></p>
 			</div>
-			<figure :scrollreveal-fromtop ><a href="http://dribbble.com/shots/714820-Metro-Dashboard/attachments/66934" title="view final on dribbble"><img src="/content/work/5.personal/i/oddsDashboard.jpg" alt="Metro style Dashboard" class="fluid" width="1100" height="600"></a></figure>
+			<figure :scrollreveal-fromtop ><a href="http://dribbble.com/shots/714820-Metro-Dashboard" title="view final on dribbble"><img src="/content/work/5.personal/i/oddsDashboard.jpg" alt="Metro style Dashboard" class="fluid" width="1100" height="600"></a></figure>
 		</section>
 	</article>
 </div>

diff --git a/content/work/5.personal/workPersonal.css b/content/work/5.personal/workPersonal.css
@@ -1,1 +1,1 @@
-.mast{background:#22649c url(i/personalMastBg.jpg) top center repeat;border-bottom:1px solid #22649c;color:#fff;text-shadow:0 1px 1px rgba(0,0,0,0.25)}.mast .text{width:30%}.mast figure{width:65%}.work .email .text{width:27.5%}
+.mast{background:#22649c url(i/personalMastBg.jpg) top center repeat;border-bottom:1px solid #22649c;color:#fff;text-shadow:0 1px 1px rgba(0,0,0,0.25)}.mast .text{width:35%}.mast figure{width:65%}.work .email .text{width:35%}

diff --git a/css/global.less b/css/global.less
@@ -184,6 +184,9 @@ article ul,
 blockquote {
 	margin: 0 0 25px 0;
 }
+.center {
+	text-align: center;
+}
 blockquote p {
 	font-size: @fs-l;
 	line-height: 1.1;
@@ -312,6 +315,9 @@ a.btn {
 	border-radius: 20px;
 	-webkit-transition: all .1s ease-in;
 	transition: all .1s ease-in;
+	white-space: nowrap;
+	display: inline-block;
+	margin: 3px auto;
 }
 .btn.dribbble,
 .btn.github {

diff --git a/content/work/5.personal/workPersonal.less b/content/work/5.personal/workPersonal.less
@@ -5,11 +5,11 @@
 	text-shadow: 0 1px 1px rgba(0,0,0,.25);
 	}
 .mast .text {
-	width: 30%;
+	width: 35%;
 	}
 .mast figure {
 	width: 65%;
 	}
 .work .email .text {
-	width: 27.5%;
+	width: 35%;
 }
